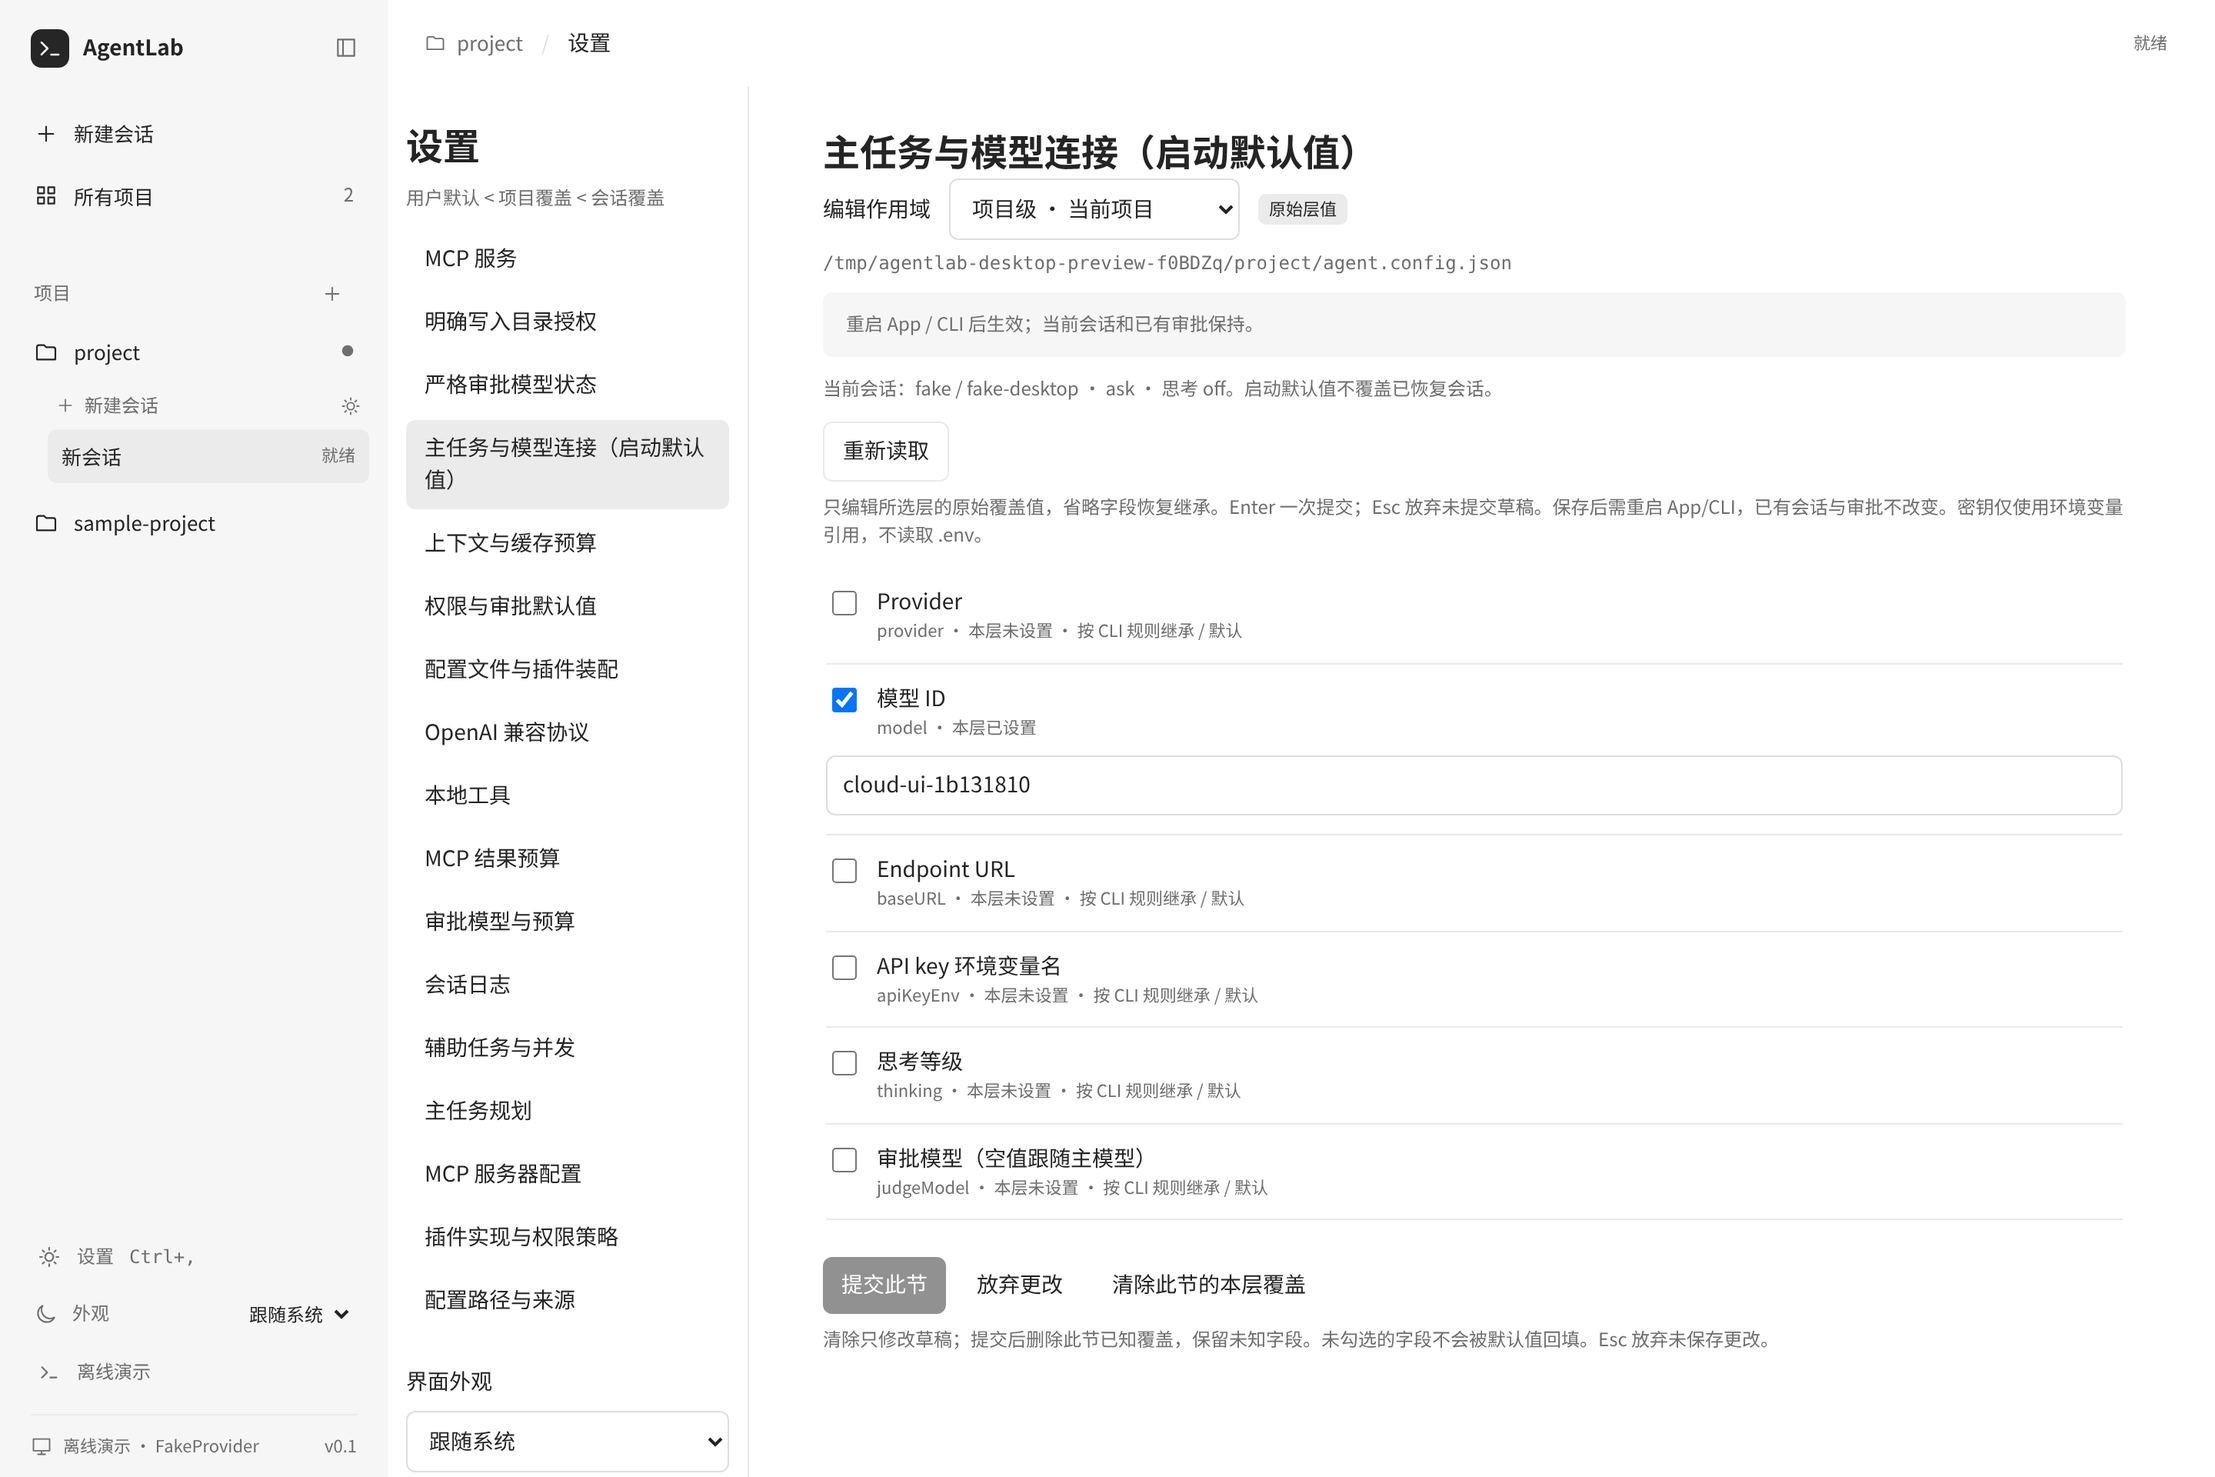
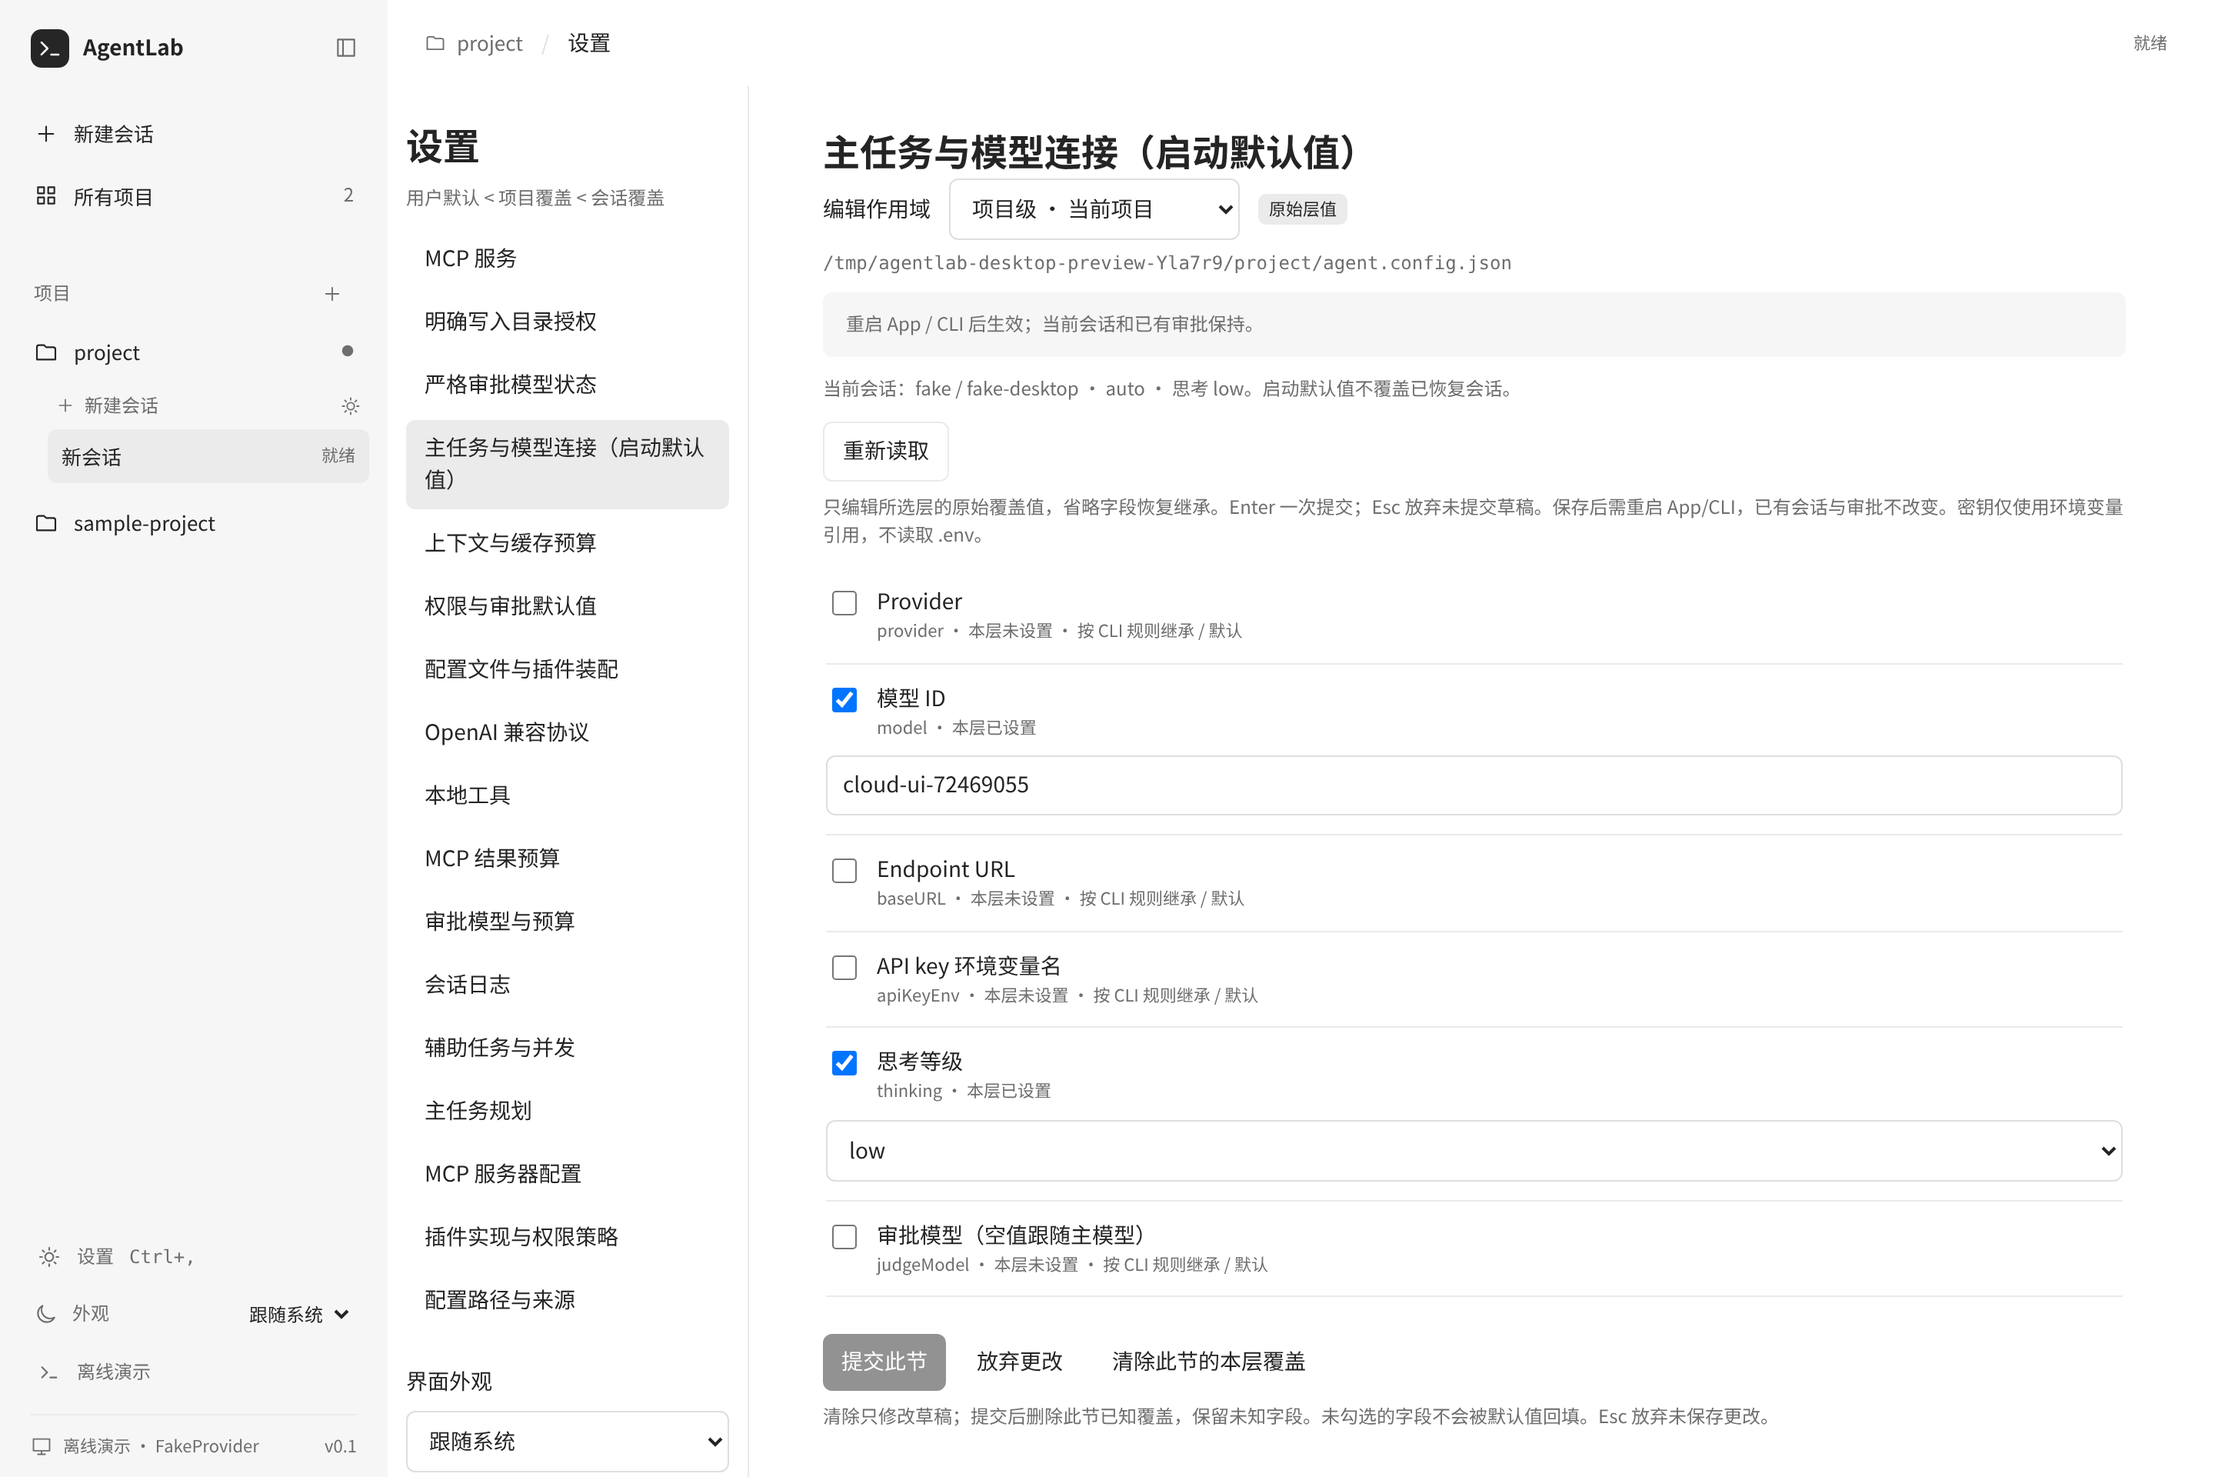
fix: preserve settings drafts and autosave simple choices with Node UI tests

Changed region(s): [[0.3438, 0.75, 0.7812, 0.9688], [0.5, 0.25, 0.6875, 0.2812], [0.5, 0.7188, 0.5625, 0.75]]

diff --git a/desktop/renderer/SettingsPanel.tsx b/desktop/renderer/SettingsPanel.tsx
@@ -255,7 +255,7 @@ export function SettingsPanel({
       }
       setError(editor.error ?? '');
     }
-  }, [editor?.id, editor?.error]);
+  }, [editor?.id, editor?.error, editor?.feedbackRevision]);
   useEffect(() => {
     if (!selected && sections.length) setSelected(sections[0].id);
   }, [sections.length]);
@@ -272,6 +272,7 @@ export function SettingsPanel({
   }, [selected, scope, runtime?.generation, runtime?.sessionId]);
   const abandon = () => !dirty || window.confirm('此节有未保存更改，放弃后继续？');
   const select = (item: SettingsDescriptor) => {
+    if (item.id === selected) return;
     if (!abandon()) return;
     markDirty(false);
     setSelected(item.id);
@@ -291,6 +292,20 @@ export function SettingsPanel({
       await request({ type: 'settings-commit', editorId: editor.id, json: JSON.stringify(draft) });
     } catch (e) {
       setError(e instanceof Error ? e.message : '提交失败，请重试。');
+    } finally {
+      setPending(false);
+    }
+  };
+  const liveSetting = async (field: 'model' | 'mode' | 'think', value: string) => {
+    if (pending || runtime?.busy || !abandon()) return;
+    markDirty(false);
+    setPending(true);
+    setError('');
+    try {
+      await request({ type: 'setting', field, value });
+      if (selected) await request({ type: 'settings-read', sectionId: selected, scope });
+    } catch (e) {
+      setError(e instanceof Error ? e.message : '设置未保存，请重试。');
     } finally {
       setPending(false);
     }
@@ -328,6 +343,51 @@ export function SettingsPanel({
             <option value="blue">冷灰蓝</option>
           </select>
         </label>
+        {runtime && (
+          <fieldset disabled={pending || runtime.busy} className="live-settings">
+            <legend>当前会话 · 选择即保存项目</legend>
+            <label>
+              模型
+              <select
+                aria-label="设置当前模型"
+                value={runtime.model}
+                onChange={(e) => void liveSetting('model', e.target.value)}
+              >
+                {runtime.models.map((model) => (
+                  <option key={model}>{model}</option>
+                ))}
+              </select>
+            </label>
+            <label>
+              权限模式
+              <select
+                aria-label="设置当前权限模式"
+                value={runtime.mode}
+                onChange={(e) => void liveSetting('mode', e.target.value)}
+              >
+                {['ask', 'auto', 'yolo'].map((mode) => (
+                  <option key={mode}>{mode}</option>
+                ))}
+              </select>
+            </label>
+            <label>
+              思考
+              <select
+                aria-label="设置当前思考等级"
+                value={runtime.thinking}
+                onChange={(e) => void liveSetting('think', e.target.value)}
+              >
+                {['off', 'low', 'medium', 'high'].map((thinking) => (
+                  <option key={thinking}>{thinking}</option>
+                ))}
+              </select>
+            </label>
+            <p className="small">
+              模型 /
+              思考于下一次请求采用；模式用于后续权限检查，已有审批仍须处理。连接与规则等结构化默认值使用右侧提交。
+            </p>
+          </fieldset>
+        )}
         {!runtime && <p>打开项目后可配置 Agent；外观立即生效。</p>}
       </aside>
       <div className="configuration-editor">

diff --git a/tests/desktop-settings.test.ts b/tests/desktop-settings.test.ts
@@ -43,6 +43,17 @@ afterEach(async () => {
 });
 
 describe('App 设置协议 / worker 与真实 runtime', () => {
+  it('简单选择项应答前完成项目持久化并应用，不需要第二次提交', async () => {
+    await send({ type: 'setting', field: 'think', value: 'low' });
+    expect(latest().busy).toBe(false);
+    expect(latest().thinking).toBe('low');
+    expect(JSON.parse(await readFile(file(), 'utf8')).thinking).toBe('low');
+    await readSettings();
+    expect(latest().settingsEditor!.value).toMatchObject({ thinking: 'low' });
+    await send({ type: 'setting', field: 'mode', value: 'auto' });
+    expect(latest().mode).toBe('auto');
+    expect(JSON.parse(await readFile(file(), 'utf8')).permissionMode).toBe('auto');
+  });
   it('只读打开不写默认；保存用户层不复制项目层、当前运行值不被启动默认覆盖', async () => {
     await readSettings();
     expect(latest().settingsEditor!.value).toEqual({});
@@ -69,6 +80,10 @@ describe('App 设置协议 / worker 与真实 runtime', () => {
     const old = latest().settingsEditor!.id;
     await commit({ apiKeyEnv: 'private-value-not-a-variable' });
     expect(latest().settingsEditor!.error).toContain('验证或保存失败');
+    const revision = latest().settingsEditor!.feedbackRevision!;
+    await commit({ apiKeyEnv: 'private-value-not-a-variable' });
+    expect(latest().settingsEditor!.error).toContain('验证或保存失败');
+    expect(latest().settingsEditor!.feedbackRevision).toBe(revision + 1);
     expect(JSON.stringify(latest())).not.toContain('private-value-not-a-variable');
     await writeFile(file(), JSON.stringify({ model: 'external', future: true }));
     await commit({ model: 'new' }, old);

diff --git a/desktop/worker/controller.ts b/desktop/worker/controller.ts
@@ -477,6 +477,7 @@ export class DesktopController {
             throw new Error('设置草稿已过期，请重新打开。');
           view.error = undefined;
           view.saved = false;
+          view.feedbackRevision = (view.feedbackRevision ?? 0) + 1;
           const signal = controller.signal;
           try {
             const draft = await editor.section.draft(JSON.parse(action.json), signal, editor.scope);
@@ -581,6 +582,8 @@ export class DesktopController {
     // 先建立宿主的在途记录，再运行；应答只确认入队，终态由完整快照通知。
     this.active = Promise.resolve().then(operation);
     void this.active.catch(() => {});
+    // 简单选择项的应答表示持久化 / 应用已结算，前端随后可安全刷新配置层。
+    if (action.type === 'setting') await this.active;
   }
   dispose(): Promise<void> {
     this.disposal ??= this.finishDispose();

diff --git a/tests/configuration-settings.test.ts b/tests/configuration-settings.test.ts
@@ -42,6 +42,16 @@ afterEach(() => {
 });
 
 describe('schema 驱动的分层配置入口', () => {
+  it('清除没有未知字段的对象覆盖会删除空对象，恢复全局保守缓存值', async () => {
+    mkdirSync(join(home, '.agent'));
+    write({ cache: { enabled: false, ttl: '1h' } }, join(home, '.agent/config.json'));
+    write({ provider: 'fake', cache: { enabled: true, ttl: '5m' }, unknown: true });
+    const editor = section('budgets');
+    await editor.read!(signal());
+    await editor.commit!(await editor.draft!({}, signal()), signal());
+    expect(read()).toEqual({ provider: 'fake', unknown: true });
+    expect(loadConfig(cwd).cache).toMatchObject({ enabled: false, ttl: '1h' });
+  });
   it('MCP 只写固定作用域文件，掩码保护 args/env/headers，保留未知字段与 CAS', async () => {
     const path = join(cwd, 'mcp.json');
     write(

diff --git a/src/builtin/configuration-settings.ts b/src/builtin/configuration-settings.ts
@@ -101,7 +101,7 @@ function preserveUnknown(previous: unknown, next: unknown, schema: z.ZodTypeAny)
       else delete result[key];
     }
   }
-  return result;
+  return next === undefined && Object.keys(result).length === 0 ? undefined : result;
 }
 function restoreMasked(previous: unknown, next: unknown): unknown {
   if (next === MASKED_SETTING) return previous;

diff --git a/desktop/renderer/style.css b/desktop/renderer/style.css
@@ -1547,3 +1547,19 @@ textarea:focus-visible {
   border-radius: 6px;
   padding: 8px 10px;
 }
+.live-settings {
+  border: 1px solid var(--line);
+  border-radius: 8px;
+  margin-top: 20px;
+  padding: 10px;
+  min-width: 0;
+}
+.live-settings label {
+  display: grid;
+  gap: 4px;
+  margin: 10px 0;
+}
+.live-settings select {
+  width: 100%;
+  min-width: 0;
+}

diff --git a/desktop/shared/protocol.ts b/desktop/shared/protocol.ts
@@ -149,6 +149,7 @@ export interface SettingsEditor {
   value: unknown;
   error?: string;
   saved?: boolean;
+  feedbackRevision?: number;
 }
 export type DesktopNavigation = 'settings' | 'new-session' | 'open-project';
 export interface ProjectSummary {

diff --git a/desktop/VALIDATION.md b/desktop/VALIDATION.md
@@ -53,9 +53,15 @@ pnpm test 已执行，完整日志位于本机 desktop/.validation/full-tests.lo
 - pnpm build、desktop:build：通过；Node v24.19.0，随包 LICENSE 来自同版本官方 Node 源码。
 - desktop:smoke：实际随包 Node 加载原生模块，审批前无写入，批准后写入、保存、迟到批准拒绝，/stats 无模型请求。
 - desktop:package --validate：Linux/x64 输入校验通过；darwin bundle 声明与平台 / 架构不匹配拒绝另经断言验证。没有签名、公证、发布或外发安装包。
-- desktop/scripts/ui-smoke.py：真实 Chromium 操作 React 和构建 worker，覆盖设置提交、失败反馈、用户 / 项目隔离、未保存导航拦截、重置草稿、系统暗色和 900px / DPR 2 布局，无页面 JS 错误。
+- desktop/scripts/ui-smoke.mjs：真实 Chromium 操作 React 和构建 worker，覆盖设置提交、失败反馈、用户 / 项目隔离、未保存导航拦截、重置草稿、系统暗色和 900px / DPR 2 布局，无页面 JS 错误。
 - git diff --check：通过。
 
 截图和结构化结果在 [evidence](../docs/evidence/macos-app-settings/)，完整设置覆盖、并行缓存字段状态及 macOS 原生待验清单在 [配置文档](../docs/CONFIGURATION-SETTINGS.md)。
 
 限制：Linux Chromium UI / CSS 平台注入和 worker 测试不能证明 AppKit、原生菜单 / 目录、Retina 显示器切换、Dock 生命周期或 macOS .app 实际启动通过。macOS 尚无实机验证。
+
+设置交互区分：外观以及“当前会话”的模型 / 权限模式 / 思考选择即保存，继续调用原后端命令；模型与思考在下一请求采用，模式不处理已有审批。连接组合、缓存费用选项、权限规则和其他结构化启动默认值显式提交并重启；其草稿放弃提醒不等于额外的工具授权。验收工具统一为 Node / Playwright。
+
+### Review 与 Node 验收修正
+
+三项 P2 已补回归：清除空对象后删除覆盖以恢复继承；重选当前节不丢失 dirty 状态；连续相同校验失败使用独立反馈 revision 保持提示。当前会话模型 / 模式 / 思考提供选择即保存入口，结构化默认值继续显式提交。新增验收脚本已替换为 Node / Playwright，仓库不再使用新增 Python UI 脚本。完整回归 93 文件，1722 passed / 2 skipped；Node UI 冒烟与 sidecar smoke 通过。

diff --git a/docs/CONFIGURATION-SETTINGS.md b/docs/CONFIGURATION-SETTINGS.md
@@ -108,8 +108,8 @@ pnpm desktop:build
 pnpm desktop:smoke
 pnpm desktop:package --validate
 pnpm desktop:preview
-# 另一个终端，需要 Python Playwright + Chromium：
-python3 desktop/scripts/ui-smoke.py
+# 另一个终端，需要 Node Playwright + Chromium：
+pnpm desktop:ui-smoke
 pnpm exec vitest run tests/configuration-settings.test.ts tests/runtime-settings-tui-autosave.test.ts
 git diff --check
 ```
@@ -119,7 +119,7 @@ AGENTLAB_NODE_LICENSE 指向同版本官方分发的 LICENSE。云端 Node v24.1
 使用官方 nodejs/node v24.19.0 LICENSE，放在临时目录，不提交二进制或安装包。
 
 所有测试使用隔离 HOME、临时项目和固定假凭据。TUI 按键测试与 App UI 测试分别报告；
-ui-smoke.py 操作真实 React 页面与构建 worker，覆盖提交 / 校验失败 / 作用域 / 未保存
+ui-smoke.mjs 操作真实 React 页面与构建 worker，覆盖提交 / 校验失败 / 作用域 / 未保存
 导航 / 草稿重置 / 系统暗色 / 窄屏高 DPI。它不能验证 Electron 菜单或 AppKit。
 
 独立 macOS 环境的剩余验收清单：
@@ -162,3 +162,5 @@ ui-smoke.py 操作真实 React 页面与构建 worker，覆盖提交 / 校验失
 在未被本 schema 拥有前保持原值且不展示。缓存任务的稀疏 cache 合并修复应由该任务落入
 loadConfigWithSources；本分支不复制其 loader。两者组合时需回归：全局 enabled=false / ttl=5m，
 项目只改 staticTtl 后，enabled 仍为 false、ttl 仍为 5m，且打开设置不改变任意文件。
+
+设置交互区分：外观以及“当前会话”的模型 / 权限模式 / 思考选择即保存，继续调用原后端命令；模型与思考在下一请求采用，模式不处理已有审批。连接组合、缓存费用选项、权限规则和其他结构化启动默认值显式提交并重启；其草稿放弃提醒不等于额外的工具授权。验收工具统一为 Node / Playwright。

diff --git a/desktop/README.md b/desktop/README.md
@@ -108,3 +108,5 @@ macOS 源码构建须在 macOS 对应架构运行 pnpm desktop:build / desktop:s
 --validate 仅验证输入；随包 Node / 原生模块必须与目标平台和架构一致。没有签名、公证或发布流程。
 构建使用当前 Node 的官方 LICENSE，缺少时可用 AGENTLAB_NODE_LICENSE 显式提供同版本文件。
 Linux 浏览器预览和平台注入测试不等于原生 macOS 通过。
+
+设置交互区分：外观以及“当前会话”的模型 / 权限模式 / 思考选择即保存，继续调用原后端命令；模型与思考在下一请求采用，模式不处理已有审批。连接组合、缓存费用选项、权限规则和其他结构化启动默认值显式提交并重启；其草稿放弃提醒不等于额外的工具授权。验收工具统一为 Node / Playwright。
